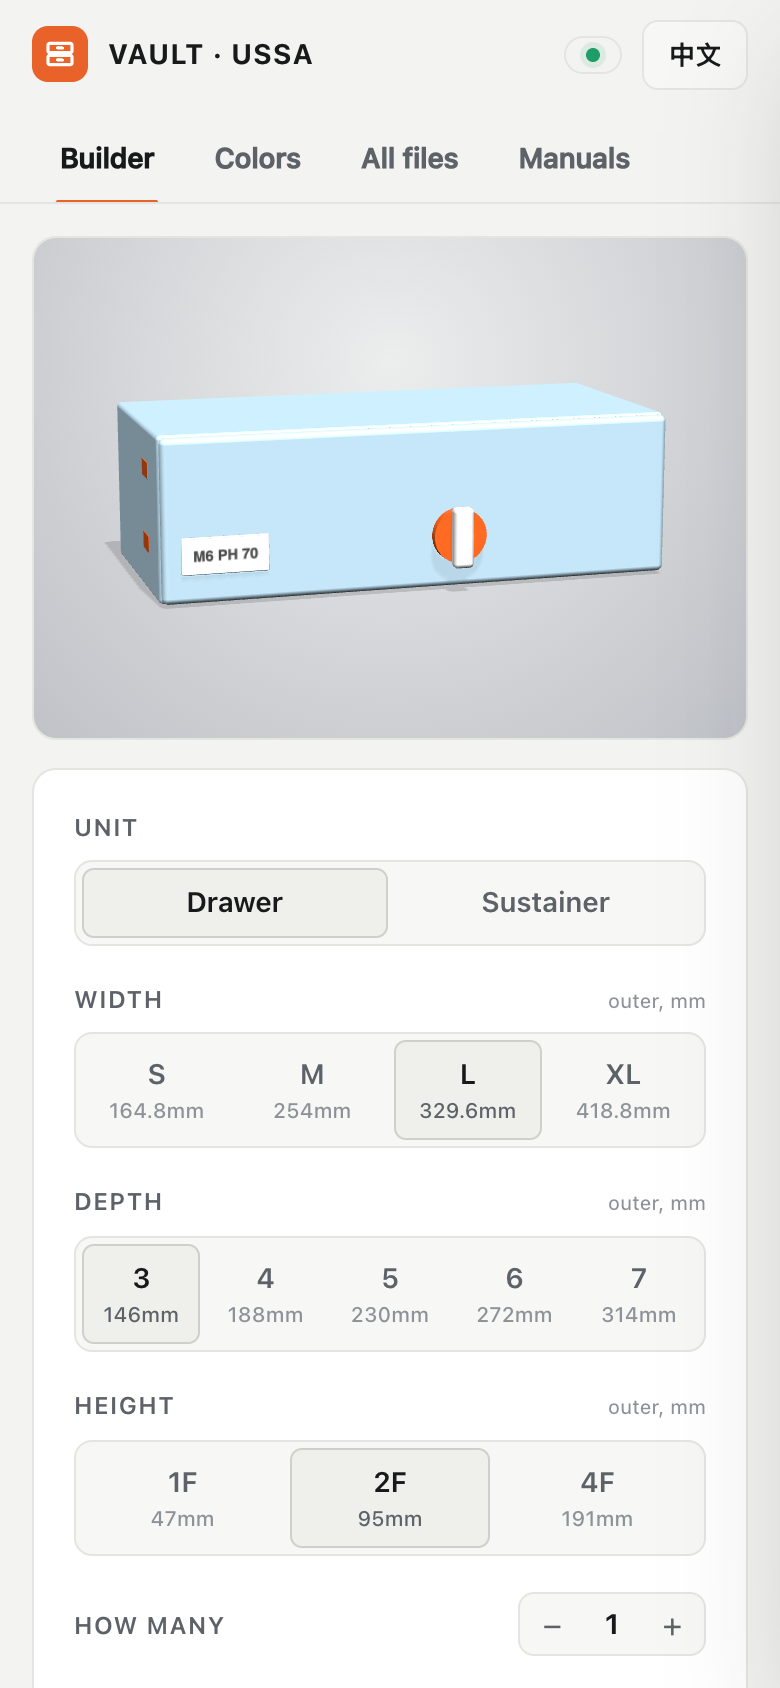
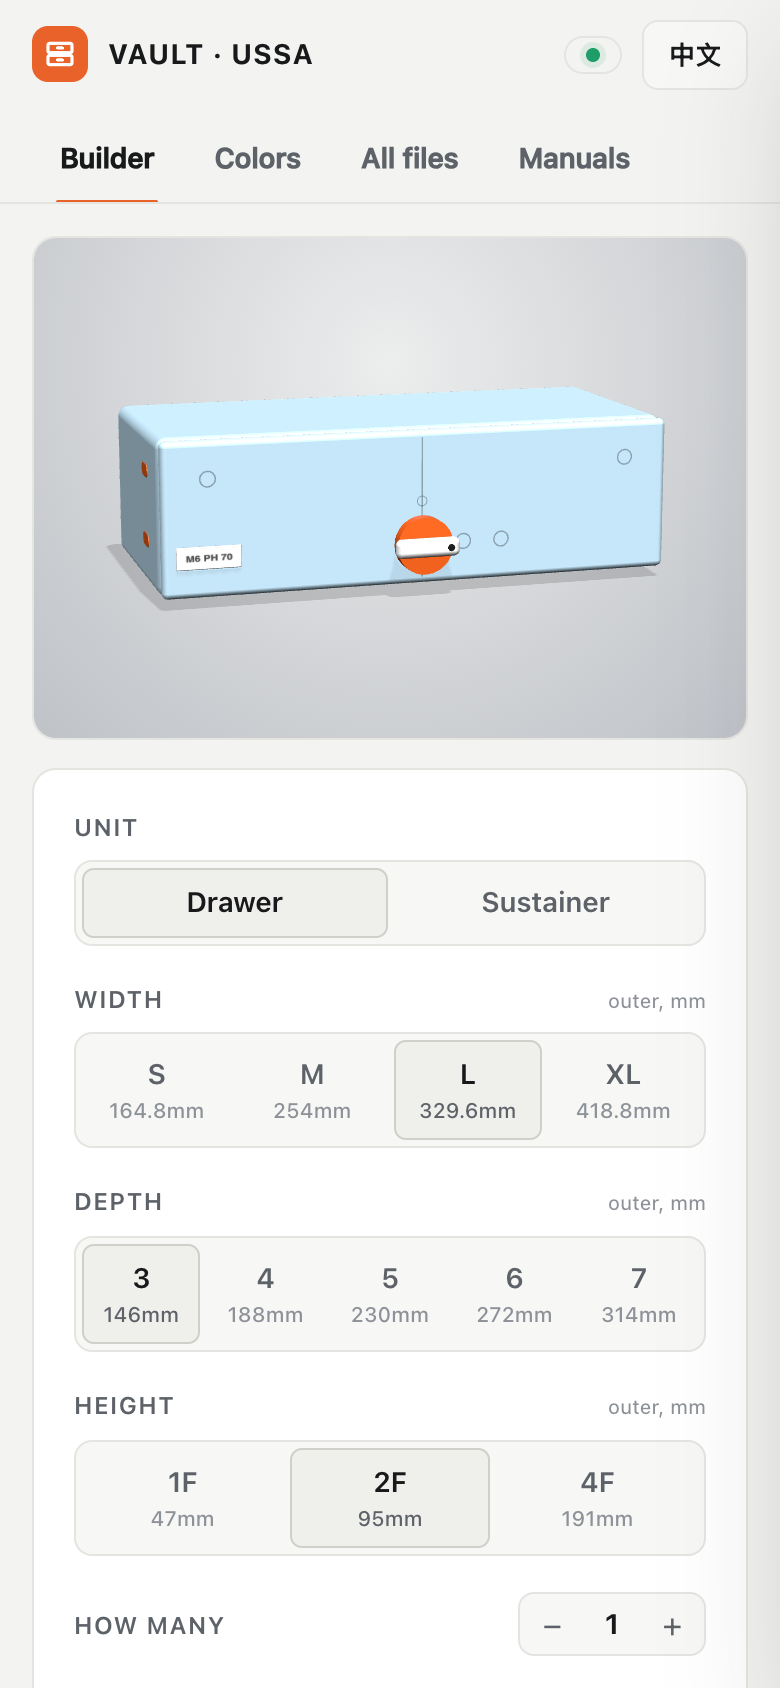
Preview and tower: closer to the real exterior (key, label, handle, facade seam, dimples, stoppers, latch pocket, bolts, feet); refreshed screenshots

Changed region(s): [[0.1538, 0.2156, 0.8615, 0.3697], [0.7385, 0.3081, 0.8615, 0.3389], [0.1538, 0.3081, 0.1846, 0.3389]]

diff --git a/index.html b/index.html
@@ -1605,7 +1605,9 @@ const colorMaterial = (THREE, finish, hex) => finish === 'basic'
 /* --- Simplified drawers and sustainers built from plain shapes (no STL files needed). --- */
 // The Colors tab shows a tower that follows the reference photo: S1F + S1F / L1F / L2F / sustainer L2F / (S1F over S1F) + S2F, with roof and handle.
 // The Builder preview shows the unit you configured with the same shapes.
-const STACK = { S: 164.8, L: 329.6, F1: 52.5, F2: 105, DEPTH: 190, LID: 22 };
+const STACK = { S: 164.8, L: 329.6, F1: 50, F2: 100, DEPTH: 190, LID: 22, FEET: 5 };
+// Height of one box (nominal outer height plus the little joint between boxes).
+const UNIT_H = { drawer: { '1F': 50, '2F': 100, '4F': 200 }, sustainer: { '1F': 64, '2F': 100, '4F': 200 } };
 function stackUnits() {
   const { S, L, F1, F2 } = STACK;
   return [
@@ -1632,7 +1634,7 @@ function labelTexture(THREE, dark) {
   return tex;
 }
 
-// Helpers bound to one scene group; every mesh carries its Colors-tab role so it can be recolored and picked.
+// Helpers bound to one scene group; every colorable mesh carries its Colors-tab role so it can be recolored and picked.
 function shapeKit(e) {
   const { THREE, RoundedBoxGeometry: RBG } = e;
   const g = new THREE.Group();
@@ -1640,7 +1642,9 @@ function shapeKit(e) {
   const mat = role => mats[role] ??= colorMaterial(THREE, ROLE_FINISH[role], colorOf(role).hex);
   const fixed = (hex, rough = 0.7) => new THREE.MeshStandardMaterial({ color: hex, roughness: rough, envMapIntensity: 0.5 });
   const bolt = fixed('#1b1b1d', 0.5), slot = fixed('#e8e8e8', 0.6);
-  const rb = (w, h, d, r = 3) => new RBG(w, h, d, 3, Math.min(r, w / 2 - 0.05, h / 2 - 0.05, d / 2 - 0.05));
+  const inkMat = (opacity) => new THREE.MeshBasicMaterial({ color: 0x000000, transparent: true, opacity, depthWrite: false });
+  const ink = inkMat(0.3), soft = inkMat(0.13);
+  const rb = (w, h, d, r = 3) => new RBG(w, h, d, 4, Math.min(r, w / 2 - 0.05, h / 2 - 0.05, d / 2 - 0.05));
   const add = (geo, material, x, y, z, role) => {
     const m = new THREE.Mesh(geo, material);
     m.position.set(x, y, z);
@@ -1649,79 +1653,114 @@ function shapeKit(e) {
     g.add(m);
     return m;
   };
+  // Flat marks printed on the front (seams, screw dimples, recesses): a see-through dark layer, so they work on every color.
+  const decal = (geo, x, y, z, material = ink) => { const m = new THREE.Mesh(geo, material); m.position.set(x, y, z); g.add(m); return m; };
+  const ring = (r, x, y, z = 7.7) => decal(new THREE.RingGeometry(r * 0.82, r, 32), x, y, z);
   const labelMat = new THREE.MeshBasicMaterial({ map: labelTexture(THREE, isDarkHex(colorOf('label').hex)), transparent: true, depthWrite: false });
-  const label = (cx, w, y, h, ly) => {
-    add(rb(54, 23, 1.6, 3), mat('label'), cx - w / 2 + 40, y + h / 2 + ly, 8.3, 'label');
-    const text = new THREE.Mesh(new THREE.PlaneGeometry(46, 17), labelMat);
-    text.position.set(cx - w / 2 + 40, y + h / 2 + ly, 9.3);
+  // The label is a small plate (about 40 x 14 mm) near the left edge of the facade.
+  const label = (cx, w, y, h, ly, inset = 30) => {
+    add(rb(40, 14, 1.6, 5), mat('label'), cx - w / 2 + inset, y + h / 2 + ly, 8.3, 'label');
+    const text = new THREE.Mesh(new THREE.PlaneGeometry(33, 10), labelMat);
+    text.position.set(cx - w / 2 + inset, y + h / 2 + ly, 9.3);
     g.add(text);
   };
-  return { THREE, g, mats, labelMat, mat, fixed, bolt, slot, rb, add, label };
+  return { THREE, g, mats, labelMat, mat, fixed, bolt, slot, ink, soft, rb, add, decal, ring, label };
 }
 
+const roundedRect = (THREE, w, h, r) => {
+  const s = new THREE.Shape();
+  s.moveTo(-w / 2 + r, -h / 2); s.lineTo(w / 2 - r, -h / 2); s.absarc(w / 2 - r, -h / 2 + r, r, -Math.PI / 2, 0);
+  s.lineTo(w / 2, h / 2 - r); s.absarc(w / 2 - r, h / 2 - r, r, 0, Math.PI / 2);
+  s.lineTo(-w / 2 + r, h / 2); s.absarc(-w / 2 + r, h / 2 - r, r, Math.PI / 2, Math.PI);
+  s.lineTo(-w / 2, -h / 2 + r); s.absarc(-w / 2 + r, -h / 2 + r, r, Math.PI, Math.PI * 1.5);
+  return s;
+};
+
+// A drawer: rounded body, facade with a seam down the middle on 2F / 4F, the rotary key (centered; low on tall boxes),
+// screw dimples, and the label at the left.
 function addDrawer(k, { cx, w, y, h }, depth, lock = 'key') {
-  const { THREE, add, mat, rb, label } = k;
-  add(rb(w - 1.5, h - 1.5, depth, 3), mat('body'), cx, y + h / 2, -depth / 2, 'body');
-  add(rb(w - 3, h - 3.5, 8, 4), mat('facade'), cx, y + h / 2, 3.5, 'facade');
-  const ky = y + h / 2 + (h > 60 ? -0.17 * h : 0), kx = cx + 0.07 * w;
+  const { THREE, add, mat, rb, label, decal, ring, bolt } = k;
+  add(rb(w - 1.5, h - 1.5, depth, 7), mat('body'), cx, y + h / 2, -depth / 2, 'body');
+  add(rb(w - 3, h - 3.5, 8, 6), mat('facade'), cx, y + h / 2, 3.5, 'facade');
+  const tall = h > 70, ky = y + (h > 150 ? 0.16 * h : tall ? 0.27 * h : 0.5 * h), kx = cx;
+  if (tall) {
+    decal(new THREE.PlaneGeometry(0.9, h - 12), cx, y + h / 2, 7.7);          // facade seam
+    ring(3.4, cx, ky + 27);                                                    // lock mark on the seam
+    ring(5.2, cx - w / 2 + 30, y + h - 25); ring(5.2, cx + w / 2 - 30, y + h - 25);
+  }
+  for (const dx of [27, 52]) if (kx + dx < cx + w / 2 - 14) ring(5.2, kx + dx, ky);
   if (lock === 'hidden') {   // hidden key: just a small round cover on the facade
     add(new THREE.CylinderGeometry(6, 6, 3, 28), mat('key'), kx, ky, 9, 'key').rotation.x = Math.PI / 2;
   } else {
-    add(new THREE.CylinderGeometry(17, 17, 6, 40), mat('key'), kx, ky, 10.5, 'key').rotation.x = Math.PI / 2;
-    add(rb(13, 38, 9, 3), mat('keycap'), kx, ky, 17.5, 'keycap');
+    add(new THREE.CylinderGeometry(18, 18, 8, 48), mat('key'), kx, ky, 11.5, 'key').rotation.x = Math.PI / 2;
+    add(rb(41, 12, 8, 4.5), mat('keycap'), kx, ky, 19.5, 'keycap');           // the lever lies across the knob
+    const dot = add(new THREE.CylinderGeometry(2.2, 2.2, 1, 20), bolt, kx + 14, ky, 23.7); dot.rotation.x = Math.PI / 2;
   }
-  label(cx, w, y, h, h > 60 ? -0.2 * h : -0.06 * h);
+  label(cx, w, y, h, ky - (y + h / 2));
 }
 
+// A sustainer: body, lid, facade, latches (in a recessed pocket) and columns of bolts at both ends.
 function addSustainer(k, { cx, w, y, h }, depth, locks = 2) {
-  const { THREE, add, mat, rb, label, bolt, slot } = k;
+  const { THREE, add, mat, rb, label, bolt, slot, decal, soft } = k;
   const { LID } = STACK;
-  add(rb(w - 1.5, h - LID - 1, depth, 3), mat('body'), cx, y + (h - LID - 1) / 2, -depth / 2, 'body');
-  add(rb(w, LID, depth + 2, 5), mat('roof'), cx, y + h - LID / 2, -depth / 2 + 1, 'roof');
-  add(rb(w - 3, h - LID - 3.5, 8, 4), mat('facade'), cx, y + (h - LID - 1) / 2, 3.5, 'facade');
-  const n = Math.max(0, Math.min(locks, Math.floor(w / 70))), lh = Math.min(62, h - 8);
+  add(rb(w - 1.5, h - LID - 1, depth, 7), mat('body'), cx, y + (h - LID - 1) / 2, -depth / 2, 'body');
+  add(rb(w, LID, depth + 2, 8), mat('roof'), cx, y + h - LID / 2, -depth / 2 + 1, 'roof');
+  add(rb(w - 3, h - LID - 3.5, 8, 6), mat('facade'), cx, y + (h - LID - 1) / 2, 3.5, 'facade');
+  const n = Math.max(0, Math.min(locks, Math.floor(w / 70))), lh = h < 80 ? h - 8 : h > 150 ? 88 : 62;
   for (let i = 0; i < n; i++) {
     const lx = cx + ((i + 0.5) / n - 0.5) * w, ly = y + h - lh / 2 - 2;
-    add(rb(54, lh, 10, 4), mat('lock'), lx, ly, 9, 'lock');
+    decal(new THREE.PlaneGeometry(58, 20), lx, ly - lh / 2 - 7, 7.7, soft);   // the recess under the latch
+    add(rb(54, lh, 10, 5), mat('lock'), lx, ly, 9, 'lock');
     add(rb(26, 5, 3, 2), slot, lx, ly, 14.5);
   }
-  for (const sx of [-1, 1]) for (const yy of [10, h - LID - 8]) add(new THREE.CylinderGeometry(4.5, 4.5, 2, 20), bolt, cx + sx * (w / 2 - 10), y + yy, 8).rotation.x = Math.PI / 2;
-  label(cx, w, y, h, -h * 0.2);
+  const rows = h > 150 ? [10, (h - LID) / 2, h - LID - 8] : [10, h - LID - 8];
+  for (const sx of [-1, 1]) for (const yy of rows) add(new THREE.CylinderGeometry(4.5, 4.5, 2, 20), bolt, cx + sx * (w / 2 - 9), y + yy, 8).rotation.x = Math.PI / 2;
+  label(cx, w, y, h, h < 80 ? 0.1 * h : h > 150 ? -0.3 * h : -0.2 * h, 36);
 }
 
-// Runner stoppers lock the drawer on its rail: flat plates flush with the box's left side wall, about a third of the way back
-// from the front, one per 1F and two per 2F. Only the left wall of the stack is visible, so only boxes on that edge get them.
+// Runner stoppers lock the drawer on its rail: flat pill-shaped plates flush with the box's left side wall, about a third of the way
+// back from the front, one per 1F, two per 2F and four per 4F. Only the left wall of the stack is visible, so only boxes on that edge get them.
 function addStoppers(k, { y, h, kind }, depth, wallX) {
-  const fractions = h < 60 ? [0.5] : h > 150 ? [0.87, 0.62, 0.38, 0.13] : kind === 'sustainer' ? [0.7, 0.3] : [0.74, 0.3];
-  for (const f of fractions) k.add(k.rb(0.9, 10.5, 18, 1), k.mat('stopper'), wallX, y + h * f, -0.28 * depth, 'stopper');
+  const { THREE } = k;
+  const fractions = h < 80 ? [0.5] : h > 150 ? [0.87, 0.62, 0.38, 0.13] : kind === 'sustainer' ? [0.7, 0.3] : [0.74, 0.3];
+  const geo = new THREE.ExtrudeGeometry(roundedRect(THREE, 18, 8, 4), { depth: 0.9, bevelEnabled: false, curveSegments: 12 });
+  geo.translate(0, 0, -0.45);
+  geo.rotateY(Math.PI / 2);
+  for (const f of fractions) k.add(geo, k.mat('stopper'), wallX, y + h * f, -0.28 * depth, 'stopper');
 }
 
 // Roof styles of the top unit: grid, bowl, table and under-table mount.
 function addRoof(k, style, w, depth, y) {
   const { THREE, add, mat, rb } = k;
   const rw = w + 2;
-  add(rb(rw, 10, depth + 4, 3), mat('roof'), 0, y + 5, -depth / 2, 'roof');
+  add(rb(rw, 8, depth + 4, 4), mat('roof'), 0, y + 4, -depth / 2, 'roof');
   if (style === 'grid') {
     const nx = Math.max(2, Math.round(rw / 42)), nz = Math.max(2, Math.round(depth / 42));
-    for (let i = 0; i <= nx; i++) add(new THREE.BoxGeometry(2.6, 5, depth + 2), mat('roof'), -rw / 2 + 4 + i * ((rw - 8) / nx), y + 11, -depth / 2, 'roof');
-    for (let i = 0; i <= nz; i++) add(new THREE.BoxGeometry(rw - 2, 5, 2.6), mat('roof'), 0, y + 11, -depth + 4 + i * ((depth - 8) / nz), 'roof');
+    for (let i = 0; i <= nx; i++) add(new THREE.BoxGeometry(2.6, 5, depth + 2), mat('roof'), -rw / 2 + 4 + i * ((rw - 8) / nx), y + 9, -depth / 2, 'roof');
+    for (let i = 0; i <= nz; i++) add(new THREE.BoxGeometry(rw - 2, 5, 2.6), mat('roof'), 0, y + 9, -depth + 4 + i * ((depth - 8) / nz), 'roof');
   } else if (style === 'bowl') {   // a shallow tray: raised rim all round
-    add(new THREE.BoxGeometry(rw, 7, 3), mat('roof'), 0, y + 13, -depth - 0.5, 'roof');
-    add(new THREE.BoxGeometry(rw, 7, 3), mat('roof'), 0, y + 13, 1.5, 'roof');
-    for (const sx of [-1, 1]) add(new THREE.BoxGeometry(3, 7, depth + 4), mat('roof'), sx * (rw / 2 - 1.5), y + 13, -depth / 2, 'roof');
+    add(new THREE.BoxGeometry(rw, 7, 3), mat('roof'), 0, y + 11, -depth - 0.5, 'roof');
+    add(new THREE.BoxGeometry(rw, 7, 3), mat('roof'), 0, y + 11, 1.5, 'roof');
+    for (const sx of [-1, 1]) add(new THREE.BoxGeometry(3, 7, depth + 4), mat('roof'), sx * (rw / 2 - 1.5), y + 11, -depth / 2, 'roof');
   } else if (style === 'mount') {   // under-table mount: four flanges to screw the unit to a desk
-    for (const sx of [-1, 1]) for (const sz of [-1, 1]) add(rb(24, 4, 26, 2), mat('roof'), sx * (rw / 2 + 10), y + 3, -depth / 2 + sz * (depth / 2 - 4), 'roof');
+    for (const sx of [-1, 1]) for (const sz of [-1, 1]) add(rb(24, 4, 26, 2), mat('roof'), sx * (rw / 2 + 10), y + 2, -depth / 2 + sz * (depth / 2 - 4), 'roof');
   }
 }
 
+// The top handle: about 126 mm wide, with a flange that sits on the roof.
 function addHandle(k, base, depth) {
   const { THREE, add, mat } = k;
-  const rr = (w, h, r) => { const s = new THREE.Shape(); s.moveTo(-w / 2 + r, -h / 2); s.lineTo(w / 2 - r, -h / 2); s.absarc(w / 2 - r, -h / 2 + r, r, -Math.PI / 2, 0); s.lineTo(w / 2, h / 2 - r); s.absarc(w / 2 - r, h / 2 - r, r, 0, Math.PI / 2); s.lineTo(-w / 2 + r, h / 2); s.absarc(-w / 2 + r, h / 2 - r, r, Math.PI / 2, Math.PI); s.lineTo(-w / 2, -h / 2 + r); s.absarc(-w / 2 + r, -h / 2 + r, r, Math.PI, Math.PI * 1.5); return s; };
-  const shape = rr(158, 54, 16);
-  shape.holes.push(new THREE.Path(rr(112, 24, 12).getPoints(24)));
-  const hg = new THREE.ExtrudeGeometry(shape, { depth: 36, bevelEnabled: true, bevelSize: 2.5, bevelThickness: 2.5, bevelSegments: 3, curveSegments: 16 });
-  hg.translate(0, 0, -18);
-  add(hg, mat('handle'), 0, base + 27, -depth * 0.45, 'handle');
+  const shape = roundedRect(THREE, 126, 44, 12);
+  shape.holes.push(new THREE.Path(roundedRect(THREE, 88, 17, 8).getPoints(24)));
+  const hg = new THREE.ExtrudeGeometry(shape, { depth: 30, bevelEnabled: true, bevelSize: 2, bevelThickness: 2, bevelSegments: 3, curveSegments: 16 });
+  hg.translate(0, 0, -15);
+  add(hg, mat('handle'), 0, base + 24, -depth * 0.45, 'handle');
+}
+
+// Two small feet under the bottom of the stack; the whole group is lifted by their height.
+function addFeet(k, w, depth) {
+  for (const sx of [-1, 1]) k.add(k.rb(26, STACK.FEET, 46, 2), k.mat('body'), sx * (w / 2 - 30), STACK.FEET / 2 - 0.01, -depth / 2, 'body');
+  k.g.position.y = STACK.FEET;
 }
 
 // The Colors tab tower.
@@ -1733,7 +1772,8 @@ function buildTower(e) {
     if (u.kind === 'drawer') addDrawer(k, u, DEPTH); else addSustainer(k, u, DEPTH, 2);
   }
   addRoof(k, 'grid', L, DEPTH, STACK_TOP);
-  addHandle(k, STACK_TOP + 10, DEPTH);
+  addHandle(k, STACK_TOP + 8, DEPTH);
+  addFeet(k, L, DEPTH);
   return { group: k.g, mats: k.mats, labelMat: k.labelMat };
 }
 
@@ -1741,7 +1781,7 @@ function buildTower(e) {
 function buildPreviewUnit(e, st) {
   const k = shapeKit(e);
   const w = SPEC.width[st.w], depth = SPEC.length(st.d), drawer = st.type === 'drawer';
-  const pitch = (drawer ? { '1F': 52.5, '2F': 105, '4F': 210 } : { '1F': 66, '2F': 105, '4F': 210 })[st.h];
+  const pitch = UNIT_H[st.type][st.h];
   const n = Math.max(1, Math.min(st.count | 0, 6));
   for (let i = 0; i < n; i++) {
     const u = { kind: st.type, cx: 0, w, y: i * pitch, h: pitch };
@@ -1751,9 +1791,10 @@ function buildPreviewUnit(e, st) {
   let base = n * pitch;
   if (drawer) {
     const style = /Under/i.test(st.roof) ? 'mount' : /Grid/i.test(st.roof) ? 'grid' : /Bowl/i.test(st.roof) ? 'bowl' : /Table/i.test(st.roof) ? 'table' : '';
-    if (style) { addRoof(k, style, w, depth, base); base += 10; }
+    if (style) { addRoof(k, style, w, depth, base); base += 8; }
     if (st.handle) addHandle(k, base, depth);
   }
+  addFeet(k, w, depth);
   return k;
 }
 

diff --git a/README.md b/README.md
@@ -30,7 +30,7 @@ The VAULT file pack has 700+ STL files spread over dozens of nested folders (Dra
 
 Pick a unit and the hub lists every file you need, so nothing gets missed.
 
-- **Live preview** – a 3D render at the top of the options that follows every choice and shows the external parts only: body, facade, key lock and label (drawer) or lid, latches and bolts (sustainer), plus the roof (grid / bowl / table / under-table mount) and handle. It uses the colors from the Colors tab. Drag to rotate.
+- **Live preview** – a 3D render at the top of the options that follows every choice and shows the external parts only: body, facade, key lock and label (drawer) or lid, latches and bolts (sustainer), plus the roof (grid / bowl / table / under-table mount) and handle. It uses the colors from the Colors tab. Drag to rotate. The shapes follow the real product: rounded modules, a centered rotary key with a horizontal lever (set low on 2F / 4F boxes), a seam down the middle of tall facades, screw dimples, a small label, pill-shaped runner stoppers on the left wall, sustainer latches in a recessed pocket with columns of bolts, a handle about 126 mm wide, and two feet.
 - **Unit type** – Drawer or Sustainer (hinged-lid box).
 - **Size** – width S / M / L / XL, depth 3–7, height 1F / 2F / 4F, each with its outer size in mm, plus a quantity.
 - **Options** – lock style, roof for the top unit (none / bowl / grid / table / under-table mount), top handle, dividers, Gridfinity baseplate, locks per unit.
